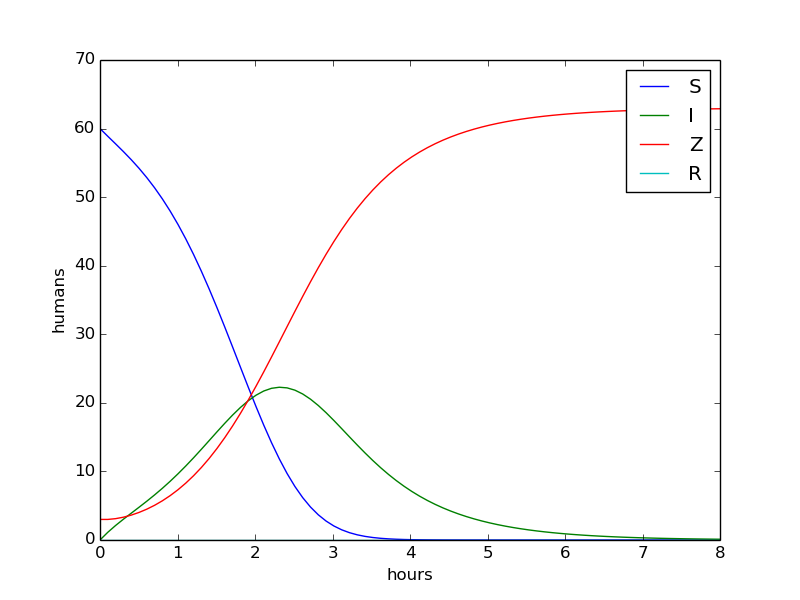
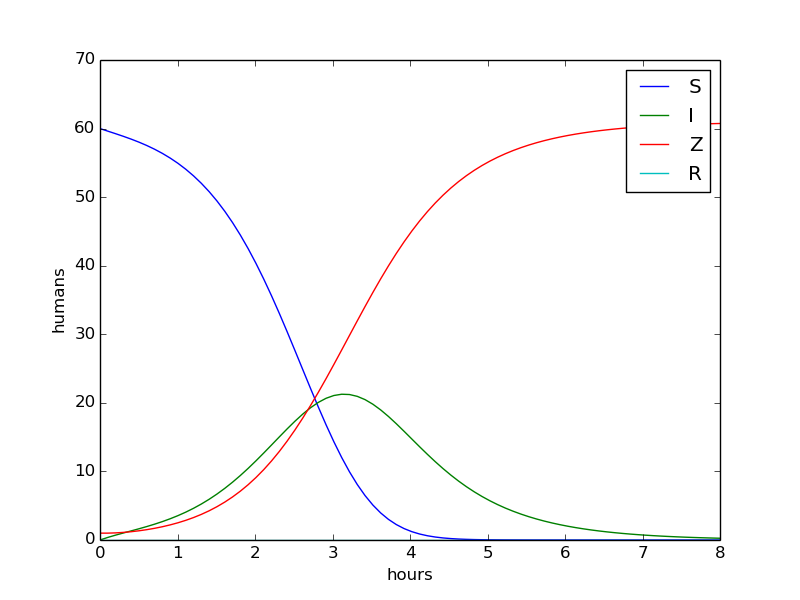
wored on data from Walking Dead

diff --git a/spesialpensum_SIR/biological_models.html b/spesialpensum_SIR/biological_models.html
@@ -47,7 +47,9 @@ Automatically generated HTML file from Doconce source
                3,
                None,
                '___sec4'),
-              (' Zombification ', 2, None, '___sec5')]}
+              (' Zombification ', 2, None, '___sec5'),
+              (' Parameters used in the model ', 3, None, '___sec6'),
+              (' Bibliography ', 2, None, '___sec7')]}
 end of tocinfo -->
 
 <body>
@@ -90,7 +92,7 @@ MathJax.Hub.Config({
 <p>
 <!-- institution(s) -->
 <p>
-<center><h4>Aug 26, 2014</h4></center> <!-- date -->
+<center><h4>Aug 29, 2014</h4></center> <!-- date -->
 
 <h2>Table of contents</h2>
 
@@ -100,6 +102,8 @@ MathJax.Hub.Config({
 &nbsp; &nbsp; &nbsp; <a href="#___sec3"> Bombay Plague Epidemic </a><br>
 &nbsp; &nbsp; &nbsp; <a href="#___sec4"> Epidemic in an English Boarding School 1978 </a><br>
 <a href="#___sec5"> Zombification </a><br>
+&nbsp; &nbsp; &nbsp; <a href="#___sec6"> Parameters used in the model </a><br>
+<a href="#___sec7"> Bibliography </a><br>
 </p>
 
 <h2>Introduction to epidemic models  <a name="___sec0"></a></h2>
@@ -361,12 +365,15 @@ $$
 controls the attacks from the susceptible will only be fired at choosen times. These are controlled by the parameters. \( a \) here works as a similar parameter as \( \alpha \), but will only active when the susceptible group is organized and ready to attack. \( T \) contains a list of numbers. This controls the time when the attacks will occur.
 <br />
 <br />
-An important factor while modelling a zombie attack is the parameters. Since the ODE system from Langtangen, Mardal and R&#248;tnes will be the model that will be used as a standard, the choice of parameters will be based on their paper. Here they have chosen to divide a zombie outbreak into three different phases. The TV series Walking dead will be used as a reference here.
+
+<h3>Parameters used in the model  <a name="___sec6"></a></h3>
+
+An important factor while modelling a zombie attack is the parameters. In the ODE system from Langtangen, Mardal and R&#248;tnes parameters from "The night of the living dead" was used. The TV series "Walking dead" has been study in detalj. The data will be based on the first five episodes and are constructed by watching the show carefully. The three phases in a zombie attack will be based on the form used in the paper from LMR.
 
 <p>
 <b>The initial phase.</b>
 <br />
-In this phase the disease is yet not known and humans often tries to save the sick ones by taking them to hospitals or get some kind of treatment. Because of this ignorance related to the disease, the number of infected humans is high. This phase is often quite short and humans soon starts realise that the risk of saving other is really high. Walking Dead never shows anything from this phase, but the viewer only sees the damages when the main character sheriff Rick Grimes wakes up at the local hospital after a coma caused shooting accident. What he wakes up to is the major damage caused in the initial phase and the society is in the hysterical phase.
+In this phase the disease is yet not known and humans often tries to save the sick ones by taking them to hospitals or get some kind of treatment. Because of this ignorance related to the disease, the number of infected humans is high. This phase is often quite short and humans soon starts realise that the risk of saving other is really high. Walking Dead never shows anything from this phase, but the viewer only sees the damages when the main character sheriff Rick Grimes wakes up at the local hospital after a coma caused by shooting accident. What he wakes up to is the major damage caused in the initial phase and the society is in the hysterical phase.
 <br />
 <br />
 <b>The hysterical phase.</b>
@@ -379,13 +386,39 @@ Now the humans start to avoid the infected and some tries to fight them. The hum
 The time for a counter attack. The group of human has been able to get resources to fight back. The number of zombies has grown much higher than the remaining human population. But because of good organization the humans are able to provide major damage on the zombies. This can be seen in the series when the zombies get to close the camp. They respond with fight and kills an amount of zombies before leaving the camp.
 <br />
 <br />
+ To denote the question about the time, the length of Ricks coma is essential. There are several factors that gives an indication of the time aspect. When Rick wakes up at the hospital he has grown a smooth beard of about 1 cm. This would correspond to 1 month in average for an European origin. He also has some flowers which has dried out, these also give the impression that there has been some weeks. The hospital is running on its emergency generator. This would probably not last for many days with a fully operational hospital. The hospital is as well as shut down when Rick wakes up. This will be a factor that can give the emergency generator a longer lifetime. Dr. Edwin Jenner gives the viewer in episode 5. Here he records a videolog describing his result.He tells the viewer that it was 63 days since the epidemic started spreading. By studying the first five episodes in detail, the series gives a sense that the time aspect has not been in focus. Therefore the different phases are constructed from the information that has been given. Rick Grimes has probably been in coma for a month and the number of zombies he meets the first days will give the indication of the numbers that will be used in the model. The total amount of people in the model will be based on the number of humans, dead and zombies seen in the first five episodes. The number of humans has been estimated to 62. 20 living in the camp with Rick, 40 humans in the old nursing home and the father and son in episode 1. The number of dead is estimated to 300. This is based on around 200 outside the hospital where Rick wakes up and about 100 elsewhere. The number of zombies are assume to be 360. These are based on the 30 outside the house of Morgan Jones and his son Duane, 300 zombies in the city Atlanta and 30 zombies attacking the camp. The total number will then be 722. Since these numbers are calculated for about a month after the outbreak of the disease and the initial phase probably are over in three days. After this the hysterical phase starts.Over the three first days when Rick is awake about 20 zombies are killed by humans and 1 human is killed by zombies. This can be used to calculate the final number in the initial phase. To do this calculation easier, a month is assumed to be 30 days and 27 days earlier. The numbers are set to:
+$$
+\begin{align*}
+\frac{27}{3}*20 =& 180\\
+\frac{27}{3}*1 =& 9
+\end{align*}
+$$
+
+180 zombies and 9 humans are killed in this period. The final number for the initial phase can then be set to 71 humans, 540 zombies and 120 dead. This is the same number as for the initial values for the hysterical phase. Another question to discuss is the incubation time. Here there are two examples that can be used. The first transformation from human to zombie happens for Amy, who was bit in the arm by a zombie. The transformation happens in about 12 hours. The other character Jim has a slower transformation. This last for about two days before the rest of the group leave him alongside the road on their way to CDC(Center for Disease Control). An average of the incubation time can then be set to 24 hours based on these two transformations.
+<br />
+<br />
+Now the ODEmodel can be used to model the initial phase. \( S_0 = 721 \) and \( Z_0 = 1 \) while the two other groups are set to zero. \( \beta \) can be found with the expression \( \beta \Delta t S Z \) from the first ODE equation. After three days about 90 percent of the humans are killed. The probability for a human being infected will be sat to \( \beta = 0.3 \). The natural death rate is sat to \( \delta_S = 2.2*10^{-5} \) based on <a href="#http://www.cdc.gov/nchs/fastats/deaths.html">[1]</a>. It is quite hard to find similar data 
+
+<p>
+<br />
+<br />
 The parameters that has been used in the modelling of the different phases are based in the movie "The Night of the living Dead". A thoroughly study of the parameters has been done by the authors, and this paper is not able to use the same amount of time. This would only result in a poor copy. But the values will be used. The first thing that is modeled is the initial phase. This is based on the situation where two humans runs into a zombie and one of then gets infected. The parameters for the simulation are set to \( S_0=60,I_0=3,\beta=0.0625,\alpha=a=0,\varrho=1,\delta_S =\delta_I = 0,\zeta=0 \). The program from LMR is used.
 
 <p>
 <center><p><img src="plots/LMR_zombie_initial_1.png" align="bottom" ></p></center>
 
 <p>
-Here a total eradication of the human population is about to happen in the 4 first hours. This is unlikely and \( \beta \) was adjusted to 0.03. This made the attacks from the zombies less effective. A deeper study is done on the effect of varying \( \beta \) 
+Here a total eradication of the human population is about to happen in the 4 first hours. This is unlikely and \( \beta \) was adjusted to 0.03. This made the attacks from the zombies less effective. A deeper study is done on the effect of varying \( \beta \) by LMR. Another assumption that can be done to get the model more realistic is to set the value of humans arriving the area higher. Here \( \Sigma = 20 \) is used. The number of infected,$I_0$ is sat to be zero in the initial stage and instead set \( Z=1 \).The model will be
+
+<p>
+<center><p><img src="plots/LMR_zombie_initial_2.png" align="bottom" ></p></center>
+
+<h2>Bibliography  <a name="___sec7"></a></h2>
+
+<!-- begin bibliography -->
+
+<p>
+<!-- end bibliography -->
 
 <!-- ------------------- end of main content --------------- -->
 

diff --git a/spesialpensum_SIR/LMR_zombie_model.py b/spesialpensum_SIR/LMR_zombie_model.py
@@ -2,14 +2,14 @@ from math import exp
 import numpy as np
 import matplotlib.pyplot as plt
 
-def run_program(Sigma,beta,delta_S,delta_I,rho,zeta,alpha,a,sigma,attacks):
+def run_program(Sigma,beta,delta_S,delta_I,rho,zeta,alpha,a,sigma,attacks,filename):
     def omega(t, a, sigma, T):
         return a*sum(exp(-0.5*(t-T[i])**2/sigma) for i in range(len(T)))
 
-    dt = 0.1
-    D = 0.7
-    n = int(D*24/dt)
-    T_tot = np.linspace(0,D*24,n+1)
+    dt = 0.01
+    D = 3
+    n = int(D/dt)
+    T_tot = np.linspace(0,D,n+1)
     # time step measured in hours
     # simulation lasts for D days
     # corresponding total no of hours
@@ -18,9 +18,9 @@ def run_program(Sigma,beta,delta_S,delta_I,rho,zeta,alpha,a,sigma,attacks):
     Z = np.zeros(n+1)
     R = np.zeros(n+1)
     # initial conditions:
-    S[0] = 60
+    S[0] = 721
     I[0] = 0
-    Z[0] = 3
+    Z[0] = 1
     R[0] = 0
     # step equations forward in time:
     for i in range(n):
@@ -35,17 +35,27 @@ def run_program(Sigma,beta,delta_S,delta_I,rho,zeta,alpha,a,sigma,attacks):
     plt.plot(T_tot,I,label="I")
     plt.plot(T_tot,Z,label="Z")
     plt.plot(T_tot,R,label="R")
-    plt.axis([0,8,0,70])
+    plt.axis([0,3,0,800])
     plt.xlabel("hours")
     plt.ylabel("humans")
     plt.legend()
-    plt.savefig("plots/LMR_zombie_initial_1.png")
+    #plt.savefig(filename)
     plt.show()
+    print "S_N",S[n]
+    print "I_N",I[n]
+    print "Z_N",Z[n]
+    print "R_N",R[n]
 
 if __name__ == "__main__":
-    
+    """
     Sigma = 0;beta = 0.0625;delta_S = 0;delta_I = 0;rho = 1;zeta = 0
-    alpha = 0;a = 0;sigma = 0.5;attacks = [5, 10, 18]
-    run_program(Sigma,beta,delta_S,delta_I,rho,zeta,alpha,a,sigma,attacks)
+    alpha = 0;a = 0;sigma = 0.5;attacks = [5, 10, 18];filename = "plots/LMR_zombie_initial_1.png"
+    run_program(Sigma,beta,delta_S,delta_I,rho,zeta,alpha,a,sigma,attacks,filename)
     
-
+    Sigma = 20;beta = 0.03;delta_S = 0;delta_I = 0;rho = 1;zeta = 0
+    alpha = 0;a = 0;sigma = 0.5;attacks = [5, 10, 18];filename = "plots/LMR_zombie_initial_2.png"
+    run_program(Sigma,beta,delta_S,delta_I,rho,zeta,alpha,a,sigma,attacks,filename)
+    """
+    Sigma = 0;beta = 0.3; delta_S = 2.5*10**(-5);delta_I = delta_S ;rho = 1;zeta = 0
+    alpha = 0.11;a = 0;sigma = 0.5;attacks = [5, 10, 18];filename = "plots/LMR_zombie_initial_1.png"
+    run_program(Sigma,beta,delta_S,delta_I,rho,zeta,alpha,a,sigma,attacks,filename)
